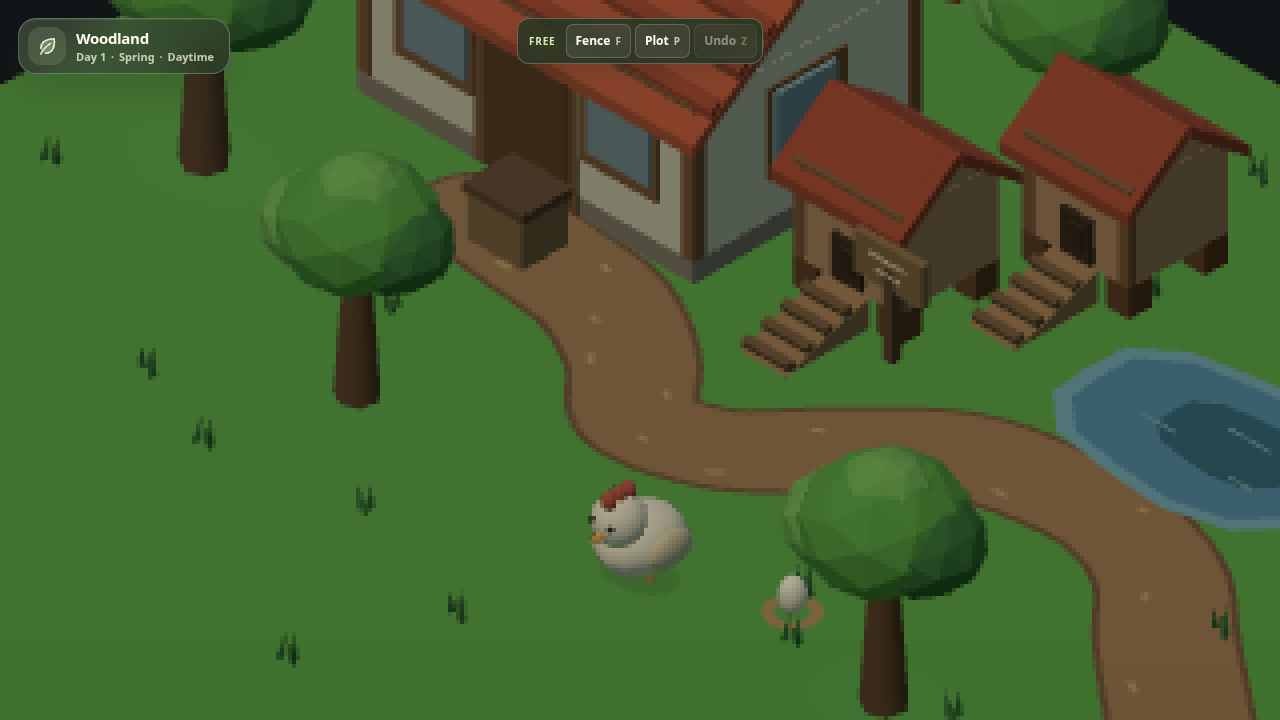
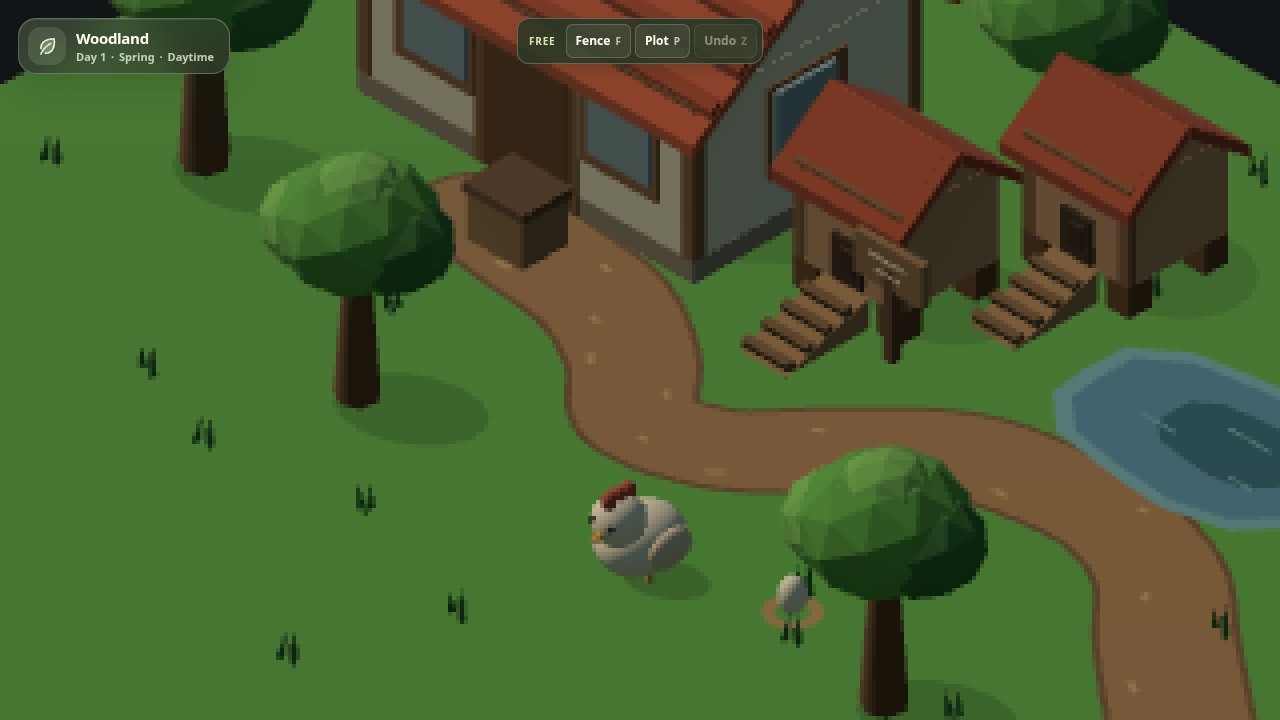
fix: keep path triangles facing upward

diff --git a/src/scene/createFarmLayout.ts b/src/scene/createFarmLayout.ts
@@ -53,6 +53,17 @@ function createPath(group: THREE.Group) {
       }
     }
 
+    // Tight bends can fold the inside edge of the ribbon. Keep every
+    // nondegenerate triangle front-facing from above before computing normals.
+    for (let i = 0; i < indices.length; i += 3) {
+      const a = indices[i] * 3;
+      const b = indices[i + 1] * 3;
+      const c = indices[i + 2] * 3;
+      const normalY = (vertices[b + 2] - vertices[a + 2]) * (vertices[c] - vertices[a]) -
+        (vertices[b] - vertices[a]) * (vertices[c + 2] - vertices[a + 2]);
+      if (normalY < 0) [indices[i + 1], indices[i + 2]] = [indices[i + 2], indices[i + 1]];
+    }
+
     const geometry = new THREE.BufferGeometry();
     geometry.setAttribute('position', new THREE.Float32BufferAttribute(vertices, 3));
     geometry.setIndex(indices);
